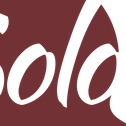
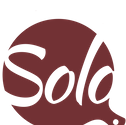
config

diff --git a/beakend/app/controllers/api/imgSlice/imgSlice.js b/beakend/app/controllers/api/imgSlice/imgSlice.js
@@ -8,12 +8,20 @@ imageToSlices.configure({
 module.exports = (backendApp, router) => {
 
     router.post('/imgSlice', [], (req,res,next) => {
-        const dir = '../../../../upload/';
-        console.log("Start");
         let fileName = req.body.fileName;
         console.log(path.join(__dirname, '../../../../upload/'+fileName));
+        req.body.xx.forEach((it,ind)=>{
+            req.body.xx[ind] = parseInt(it)
+           if (req.body.xx[ind] < 1) req.body.xx[ind] = 1
+        });
+        req.body.yy.forEach((it,ind)=>{
+            req.body.yy[ind] = parseInt(it)
+            if (req.body.yy[ind] < 1) req.body.yy[ind] = 1
+        });
+        console.log(req.body.xx, req.body.yy)
 
-        imageToSlices(path.join(__dirname, '../../../../upload/'+fileName), req.body.xx, req.body.yy,
+        imageToSlices(path.join(__dirname, '../../../../upload/'+fileName),
+            req.body.xx, req.body.yy,
             {
                 // saveToDir: path.join(__dirname, '../../../../upload/')
                 saveToDataUrl: true
@@ -23,7 +31,6 @@ module.exports = (backendApp, router) => {
                 //
                 // console.log(v[4].dataURI)
                 minification(fileName, v[4].dataURI, (err,info)=>{
-                    console.log(err,info);
                     res.ok('ok')
                 })
             }
@@ -34,7 +41,6 @@ const sharp = require('sharp');
 
 const minification = (fileName, base64Data, next)=>{
     base64Data = base64Data.toString().split("base64,")[1];
-    console.log("TEST",base64Data)
     base64Data = convertation(base64Data);
 
     sharp(base64Data)

diff --git a/provider/src/app/components/image-cropper/image-cropper.component.ts b/provider/src/app/components/image-cropper/image-cropper.component.ts
@@ -73,8 +73,8 @@ export class ImageCropperComponent implements OnInit, AfterViewInit {
     let file = path[path.length-1];
     this.imageData = {
       fileName: file,
-      xx:[canvas.x, canvas.x + canvas.width],
-      yy:[canvas.y, canvas.y + canvas.height]
+      yy:[canvas.x, canvas.x+canvas.width],
+      xx:[canvas.y, canvas.y+canvas.height]
     };
     this.crud.post('imgSlice', this.imageData, null, null)
       .then(v=>{

diff --git a/provider/src/app/components/image-cropper/image-cropper.component.scss b/provider/src/app/components/image-cropper/image-cropper.component.scss
@@ -1,4 +1,6 @@
 .img-container {
+  width: 640px;
+  height: 480px;
   float: left;
 }
 
